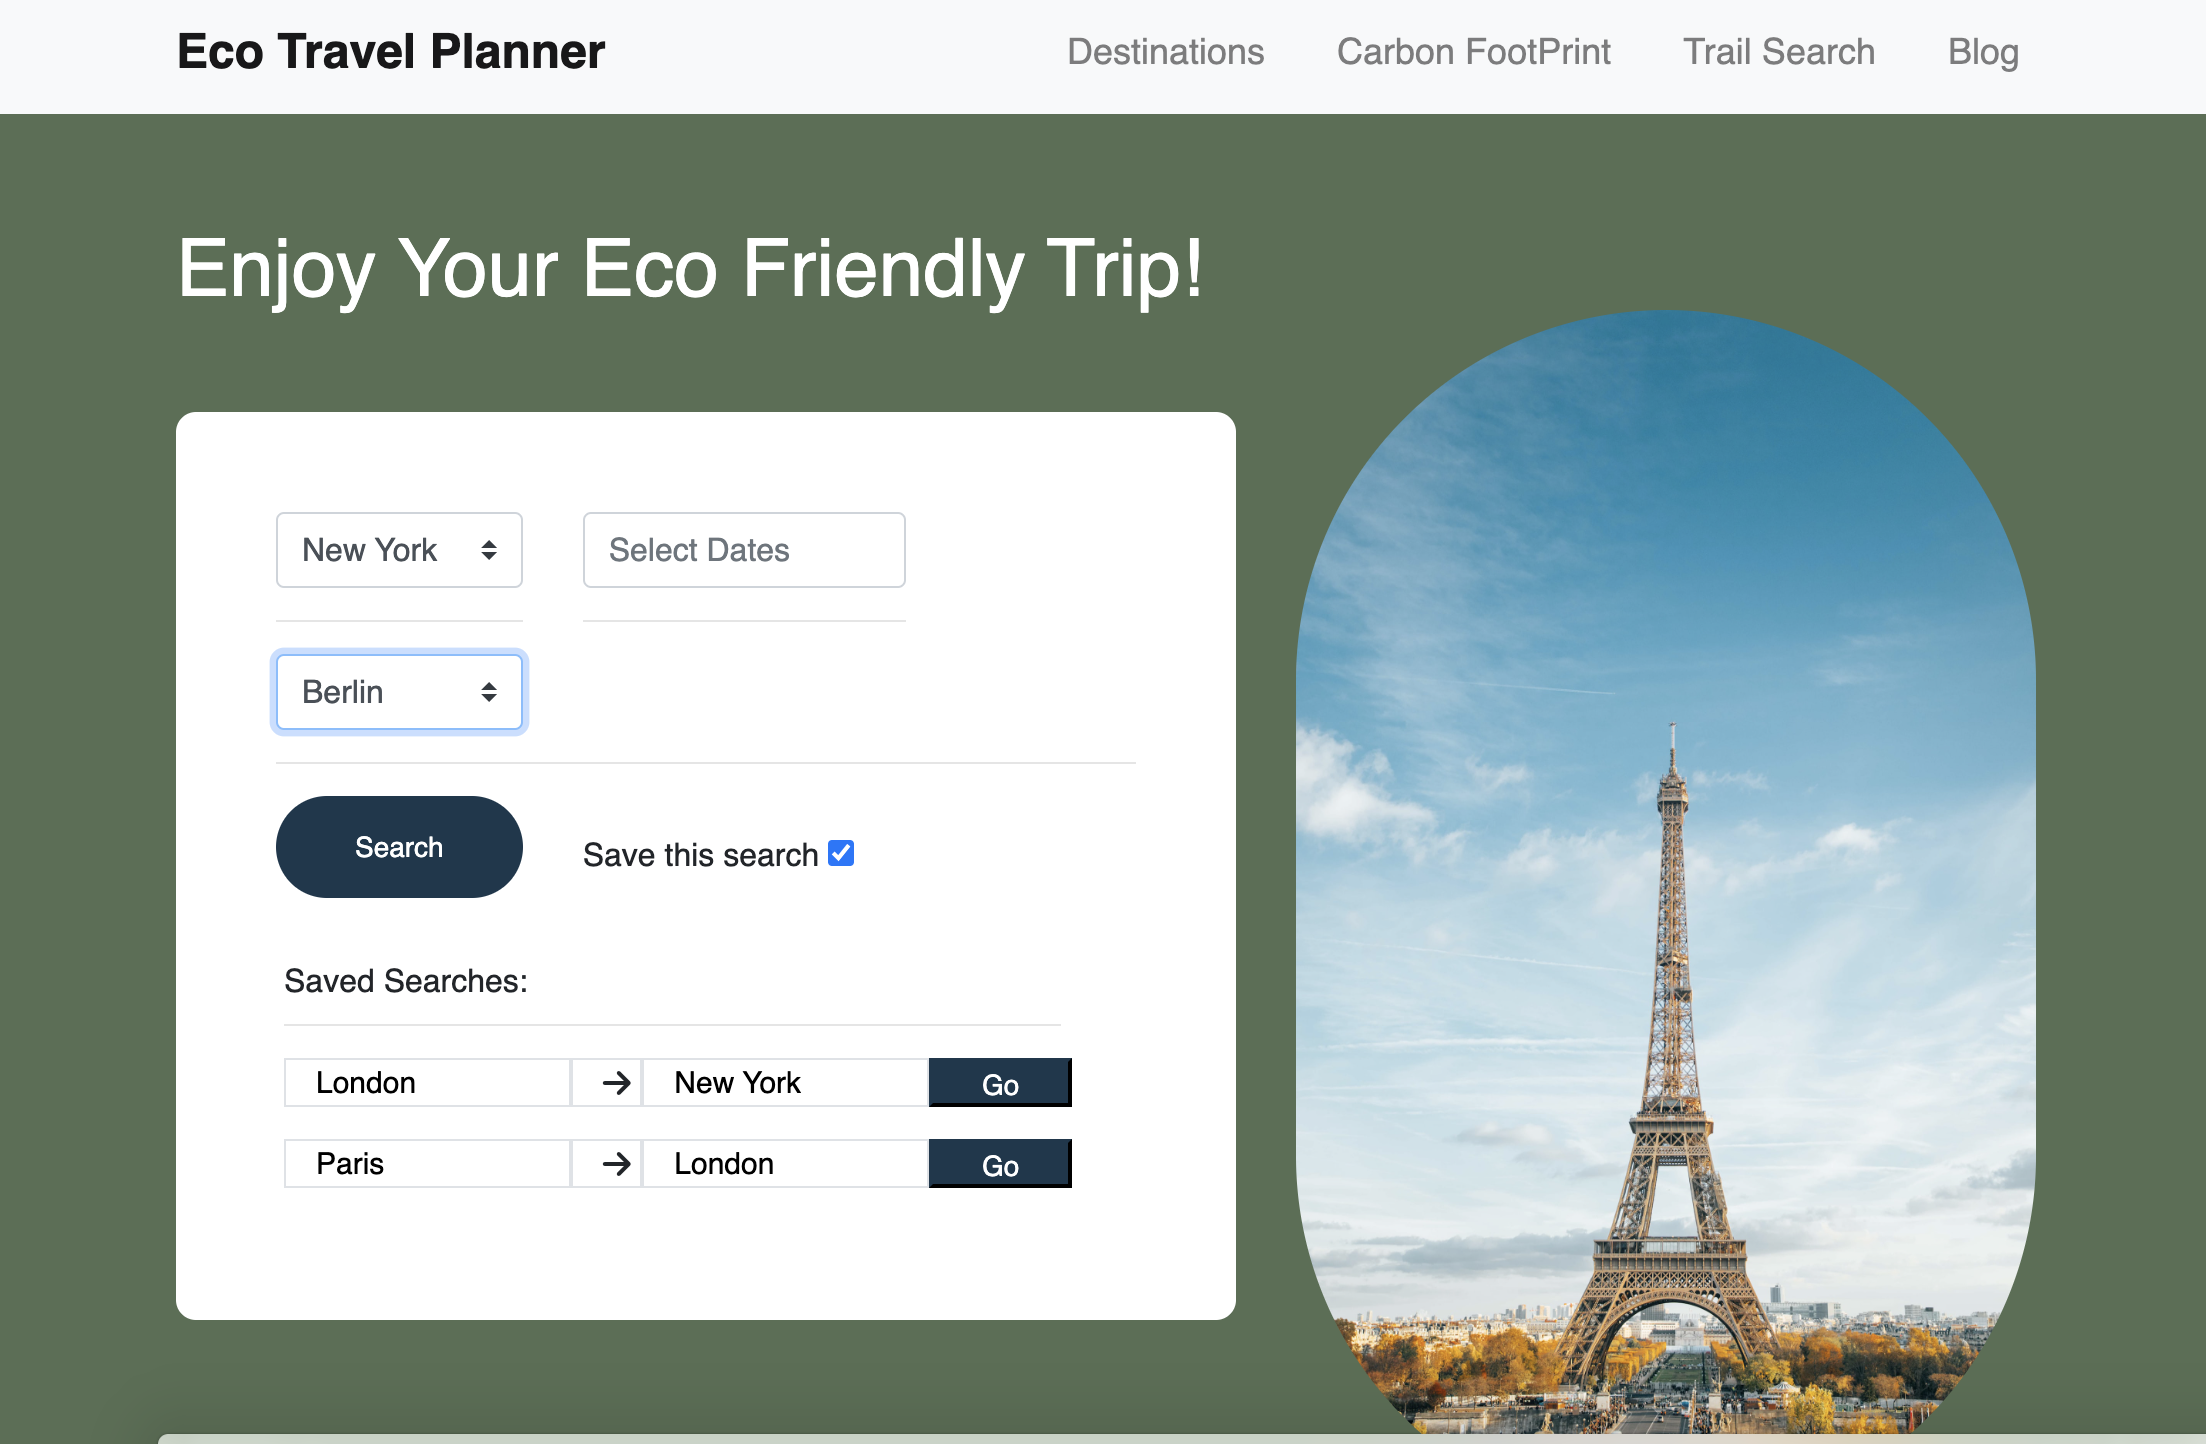
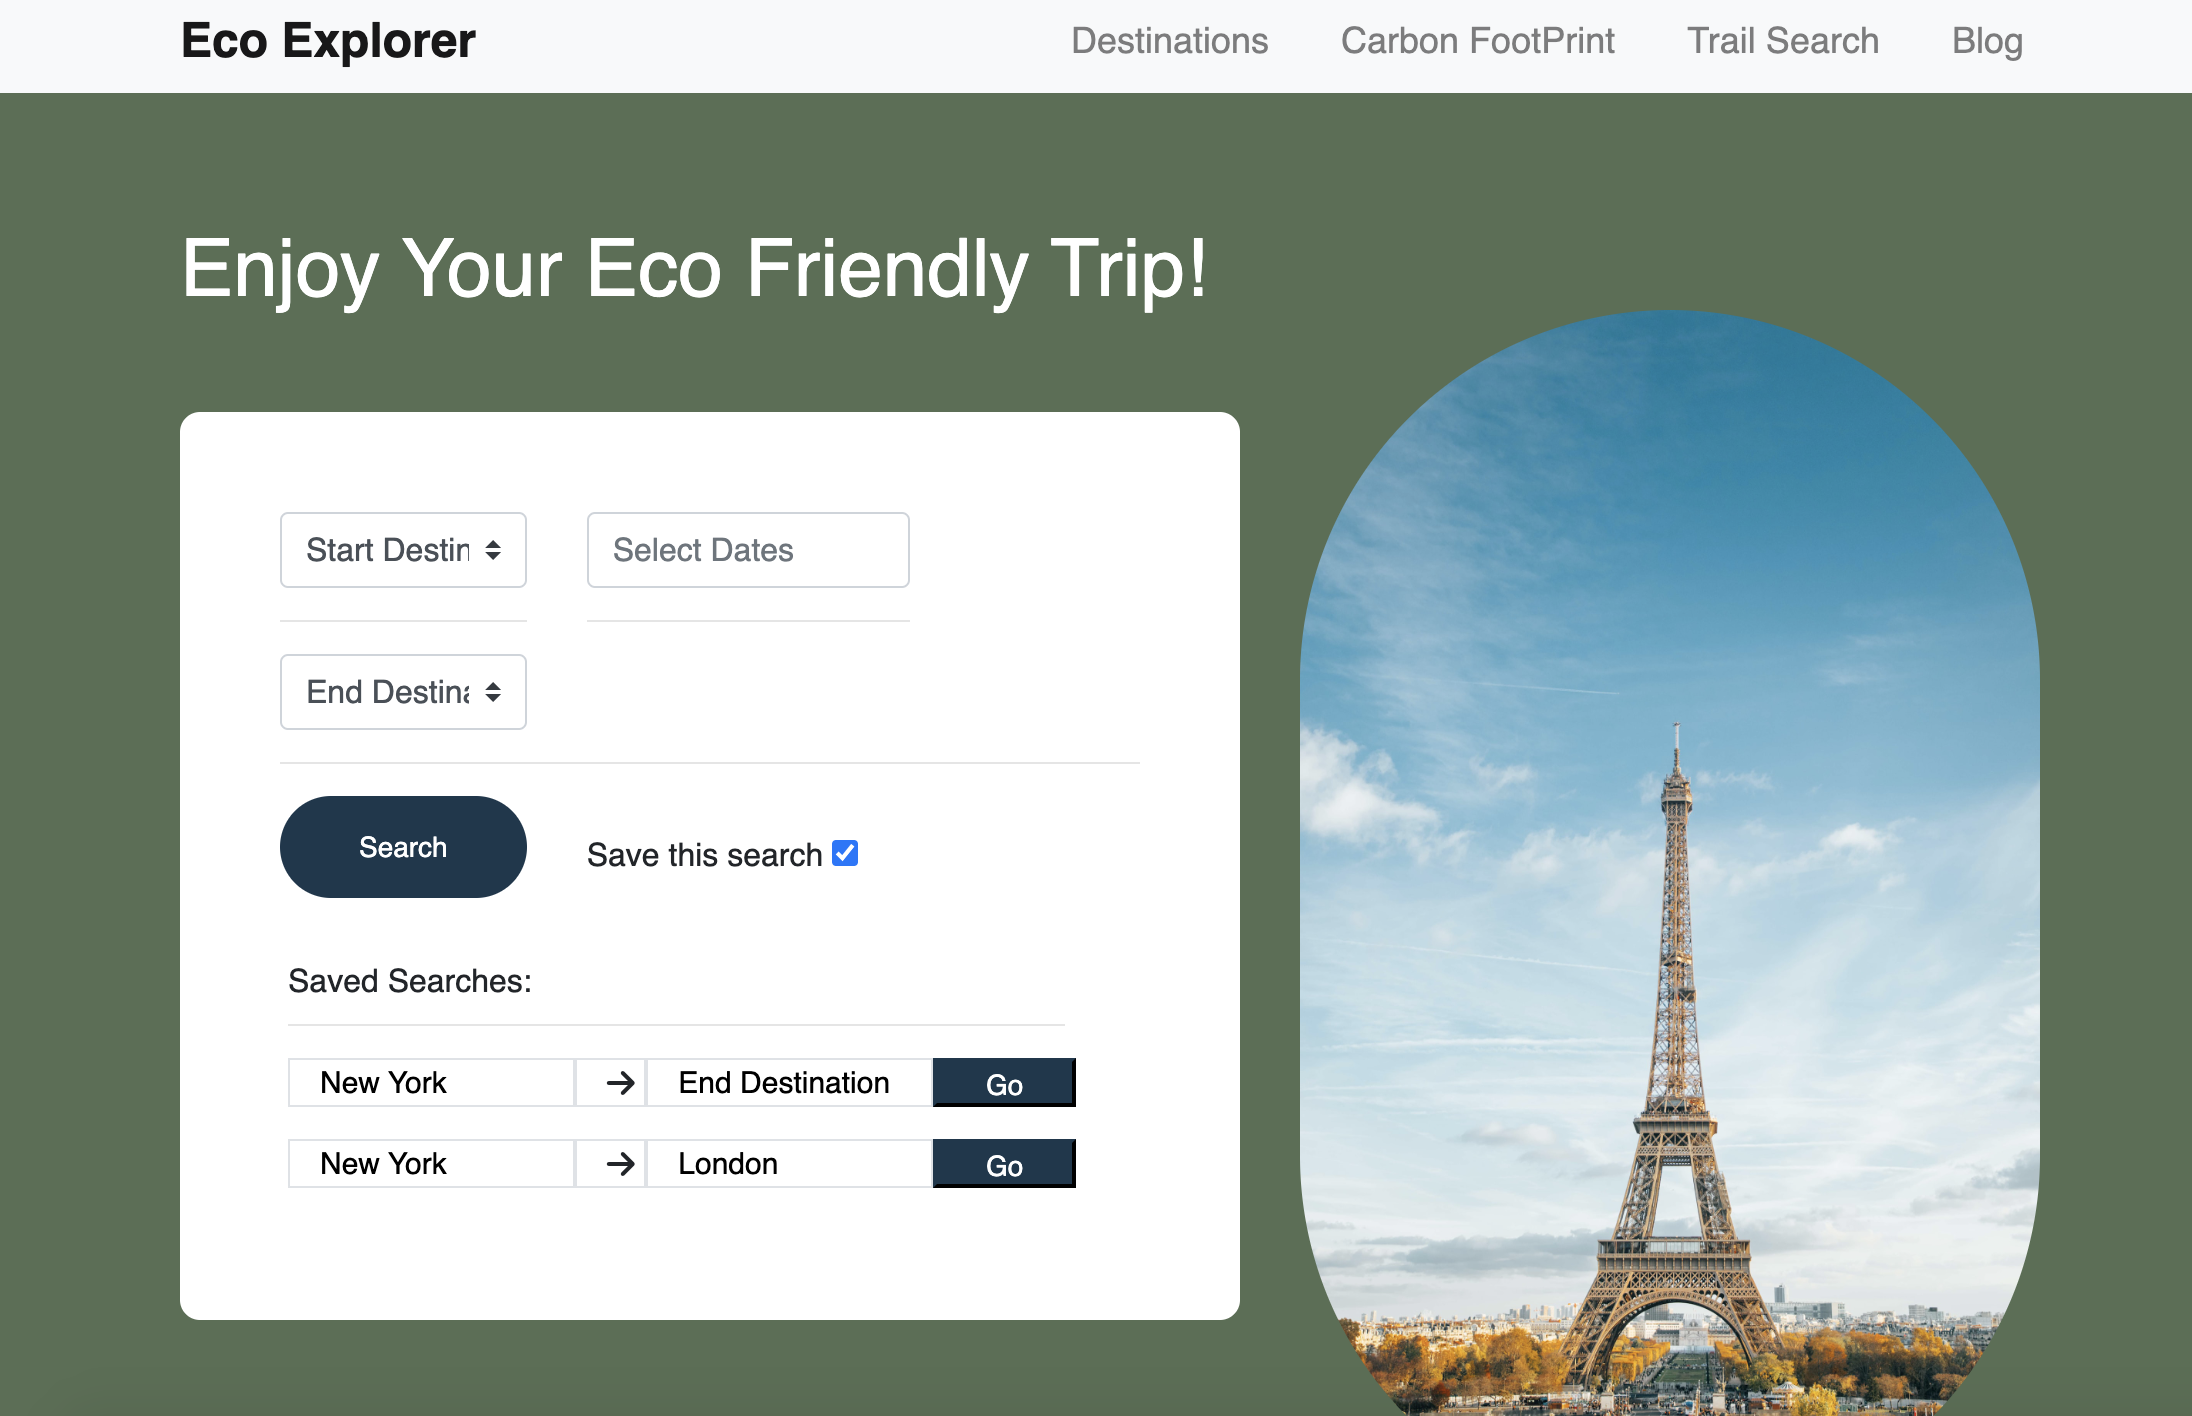
readme file Name of the app updated

diff --git a/README.md b/README.md
@@ -1,4 +1,4 @@
-# Eco-Travel-Planner
+# Eco-Explorer
 Application that helps travelers find sustainable travel options, calculates the estimated carbon emissions generated from their travel itinerary and shows sustainable travel options such as hike and bike trails.
 
 ## Links
@@ -33,7 +33,7 @@ With the Carbon Footprint Calculator, users can calculate the estimated carbon e
 
 ## Usage 
 
-To get started with the Eco Travel Planner, simply follow these steps:
+To get started with the Eco Explorer (travel planner), simply follow these steps:
 
 - Open the web-page in your web browser.
 - Enter the city and dates you wish to travel to in the search bar.
